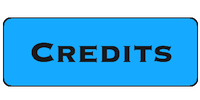
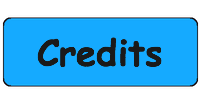
this is fully working Level buttons are unscaled and shop is ugly  but it werks

Changed region(s): [[0.15, 0.36, 0.87, 0.69]]

diff --git a/core/src/com/missionbit/snailassalt/SnailAssalt.java b/core/src/com/missionbit/snailassalt/SnailAssalt.java
@@ -10,6 +10,8 @@ import com.badlogic.gdx.graphics.g2d.Sprite;
 import com.badlogic.gdx.graphics.g2d.SpriteBatch;
 import com.badlogic.gdx.graphics.glutils.ShapeRenderer;
 import com.badlogic.gdx.math.Vector3;
+import com.sun.xml.internal.bind.v2.TODO;
+
 import java.util.ArrayList;
 public class SnailAssalt extends ApplicationAdapter {
     private SpriteBatch batch;
@@ -138,8 +140,9 @@ public class SnailAssalt extends ApplicationAdapter {
         //weapwns end
         //buttons start #iSuckAtCoding
         startButtonMenu = new StartButton(width / 2 - 325, height / 2 - 200);
+
         shopButtonMenu = new ShopButton(startButtonMenu.getXPos() + startButtonMenu.image.getWidth() + 10, startButtonMenu.getYPos());
-        shopButtonGameEnd = new ShopButton(width - 210, height - 210);
+        shopButtonGameEnd = new ShopButton(width - 390, height - 210);
         backButtonGameEnd = new BackButton(width - 210, 10);
         backButtonShop = new BackButton(width - 210, 10);
         backButtonLevelSelect = new BackButton(width - 210, 10);
@@ -149,15 +152,16 @@ public class SnailAssalt extends ApplicationAdapter {
 
         creditsButton = new CreditsButton(width / 2 - 100, 40);
 
-        hydraButton = new HydraButton(width - 210, height - 500);
+        hydraButton = new HydraButton(width - 810, height - 500);
         spHydraBut = new SpHydraBut(width - 210, height - 500);
-        saltButton = new SaltButton(width - 210, height - 600);
+        saltButton = new SaltButton(width - 810, height - 600);
         spSaltBut = new SpSaltBut(width - 610, height - 900);
 
 
         //buttons end
         hydraButton = new HydraButton(width - 210, 10);
         redoLevelButton = new RedoButton(width / 2 - 200, height / 2 - 200);
+        redoLevelButton.sprite.setSize(width/4,height/5);
         //buttons end #iSuckAtCoding
         //levels start
         levelButtons = new ArrayList<LevelButton>();
@@ -196,6 +200,7 @@ public class SnailAssalt extends ApplicationAdapter {
         spHydraBut.position.set(spHydraBut.getXPos(), spHydraBut.getYPos());
         spSaltBut.position.set(spSaltBut.getXPos(), spSaltBut.getYPos());
         startButtonMenu.position.set(startButtonMenu.getXPos(), startButtonMenu.getYPos());
+        //startButtonMenu.sprite.setSize(height,width);
         shopButtonMenu.position.set(shopButtonMenu.getXPos(), shopButtonMenu.getYPos());
         shopButtonGameEnd.position.set(shopButtonGameEnd.getXPos(), shopButtonGameEnd.getYPos());
         backButtonGameEnd.position.set(backButtonGameEnd.getXPos(), backButtonGameEnd.getYPos());
@@ -514,19 +519,21 @@ public class SnailAssalt extends ApplicationAdapter {
          - shop button
          - level select button (play)
         */
-        if (gameState == GameState.MAINMENU) { //in main menu
+        if (gameState == GameState.MAINMENU) {
+
             batch.begin();
             menu.draw(batch);
-            startButtonMenu.draw(batch);
+            startButtonMenu.sprite.draw(batch);
 
-            creditsButton.draw(batch);
-            batch.draw(shopButtonMenu.image, shopButtonMenu.position.x, shopButtonMenu.position.y);
+           creditsButton.sprite.draw(batch);
+           shopButtonMenu.sprite.draw(batch);
             font.draw(batch, "Current state: main menu", 10, height);
 
             batch.end();
         }
         else if(gameState == GameState.CREDITS){
             batch.begin();
+
             levelSelect.draw(batch);
             text1.draw(batch);
             batch.end();
@@ -631,18 +638,18 @@ public class SnailAssalt extends ApplicationAdapter {
             batch.begin();
 
             gameover.draw(batch);
-            backButtonGameEnd.draw(batch);
-            redoLevelButton.draw(batch);
-            shopButtonGameEnd.draw(batch);
+            backButtonGameEnd.sprite.draw(batch);
+            redoLevelButton.sprite.draw(batch);
+            shopButtonGameEnd.sprite.draw(batch);
             font.draw(batch, "Current state: game over", 10, height);
             batch.end();
         }
         else if (gameState == GameState.WIN) { //in win
             batch.begin();
             win.draw(batch);
-            backButtonGameEnd.draw(batch);
-            redoLevelButton.draw(batch);
-            shopButtonGameEnd.draw(batch);
+            backButtonGameEnd.sprite.draw(batch);
+            redoLevelButton.sprite.draw(batch);
+            shopButtonGameEnd.sprite.draw(batch);
             font.draw(batch, "Current state: game win", 10, height);
             batch.end();
         }

diff --git a/core/src/com/missionbit/snailassalt/Button.java b/core/src/com/missionbit/snailassalt/Button.java
@@ -15,17 +15,21 @@ public class Button {
     protected Vector2 position;
     protected Sprite sprite;
     public Button(float x, float y, String picture, String nope) {
+        width = Gdx.graphics.getWidth();
+        height = Gdx.graphics.getHeight();
         image = new Texture(picture);
         imageNope = new Texture(nope);
         xPos = x;
         yPos = y;
+        position = new Vector2();
         sprite=new Sprite(new Texture(picture));
         sprite.setPosition(getXPos(),getYPos());
-        position = new Vector2();
+        sprite.setSize(width/7,height/8);
+        //sprite.setBounds(getXPos(),getYPos(),this.buttonGetWidth(),this.buttonGetHeight());
         bound = new Rectangle();
         bound.set(getXPos(), getYPos(), this.buttonGetWidth(), this.buttonGetHeight());
-        width = Gdx.graphics.getWidth();
-        height = Gdx.graphics.getHeight();
+
+
     }
     public float getXPos() {return xPos;}
     public float getYPos() {return yPos;}

diff --git a/core/src/com/missionbit/snailassalt/RedoButton.java b/core/src/com/missionbit/snailassalt/RedoButton.java
@@ -3,6 +3,8 @@ package com.missionbit.snailassalt;
  * Created by ryansheeisaqt on 7/7/14.
  */
 public class RedoButton extends Button {
-    public RedoButton(float x, float y) {super(x, y, "try again button.png", "try again button.png");}
+    public RedoButton(float x, float y) {
+        super(x, y, "try again button.png", "try again button.png");
+    ;}
     public void pressedAction() {SnailAssalt.gameState = SnailAssalt.GameState.INGAME;}
 }

diff --git a/android/src/com/missionbit/snailassalt/android/AndroidLauncher.java b/android/src/com/missionbit/snailassalt/android/AndroidLauncher.java
@@ -11,6 +11,9 @@ public class AndroidLauncher extends AndroidApplication {
 	protected void onCreate (Bundle savedInstanceState) {
 		super.onCreate(savedInstanceState);
 		AndroidApplicationConfiguration config = new AndroidApplicationConfiguration();
+        config.hideStatusBar=true;
+        config.useImmersiveMode=true;
+        config.useWakelock=true;
 		initialize(new SnailAssalt(), config);
 	}
 }

diff --git a/core/src/com/missionbit/snailassalt/SaltButton.java b/core/src/com/missionbit/snailassalt/SaltButton.java
@@ -4,9 +4,12 @@ package com.missionbit.snailassalt;
  * Created by douglas on 7/8/14.
  */
 public class SaltButton extends Button {
-    public SaltButton(float x ,float y){
-            super(x, y,"Salt.png","Salt.png");
-        }
+    public SaltButton(float x ,float y) {
+
+        super(x, y, "Salt.png", "Salt.png");
+        sprite.setSize(width / 11, height / 5);
     }
+
+}
 
 
